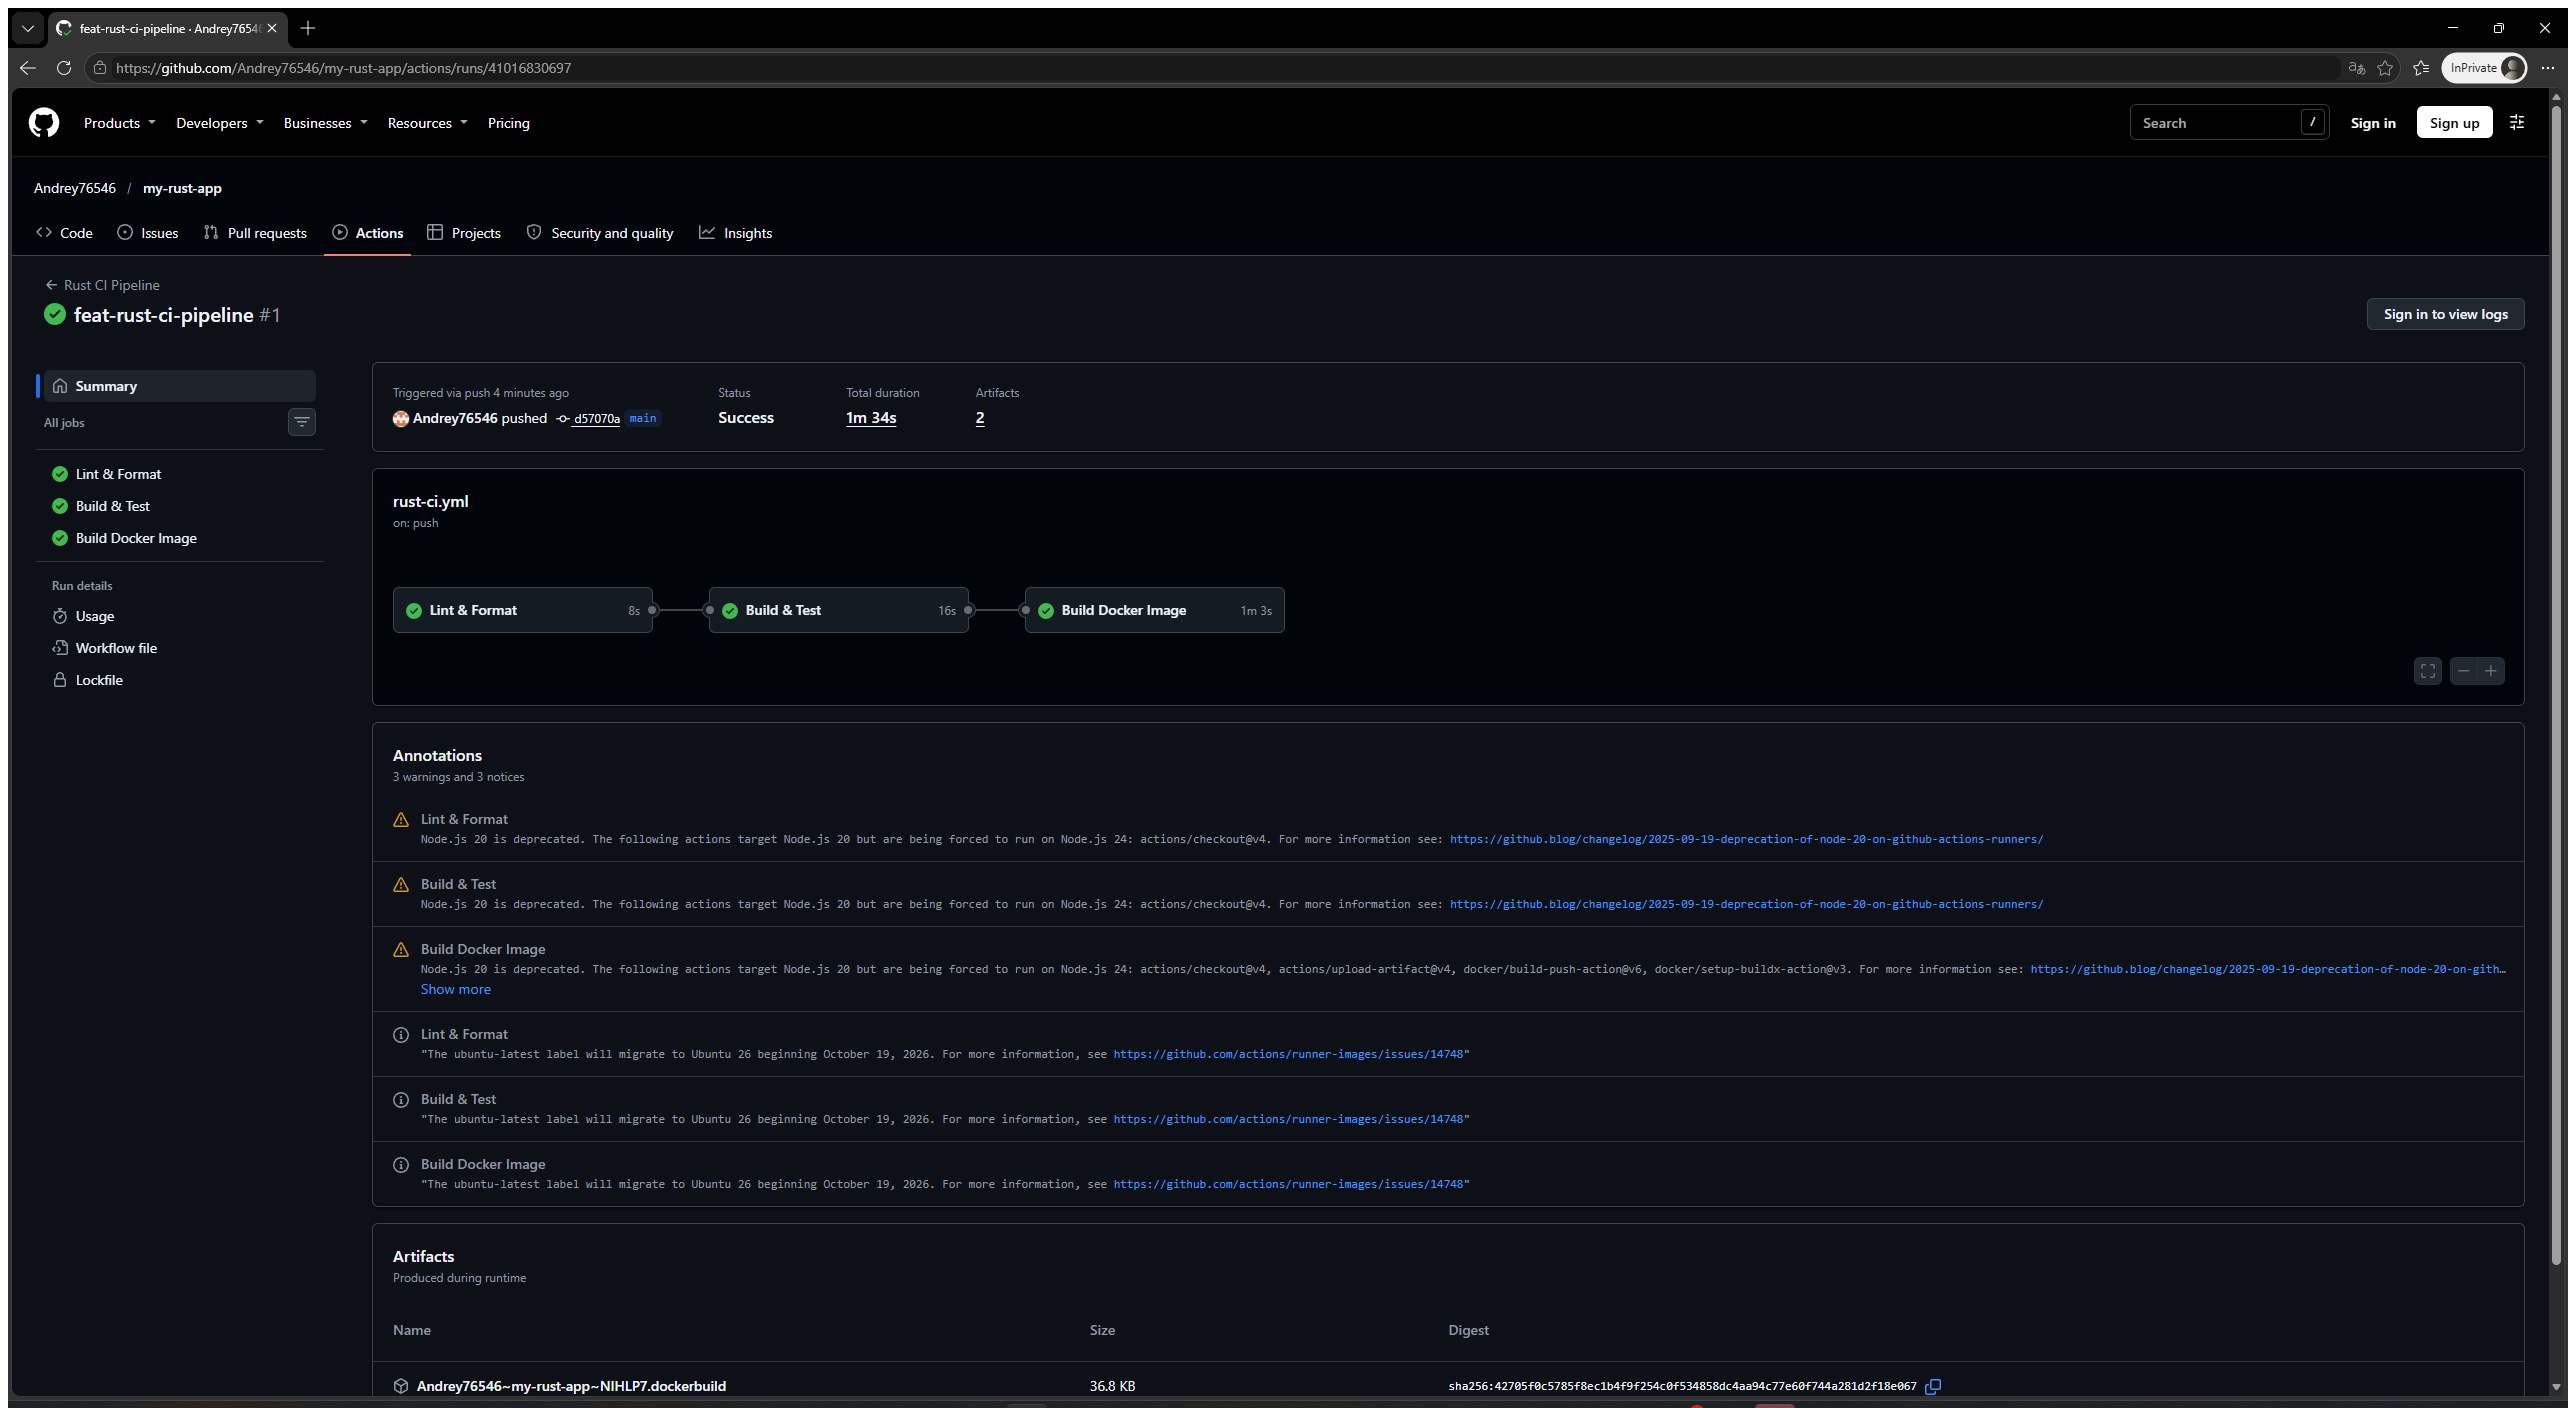
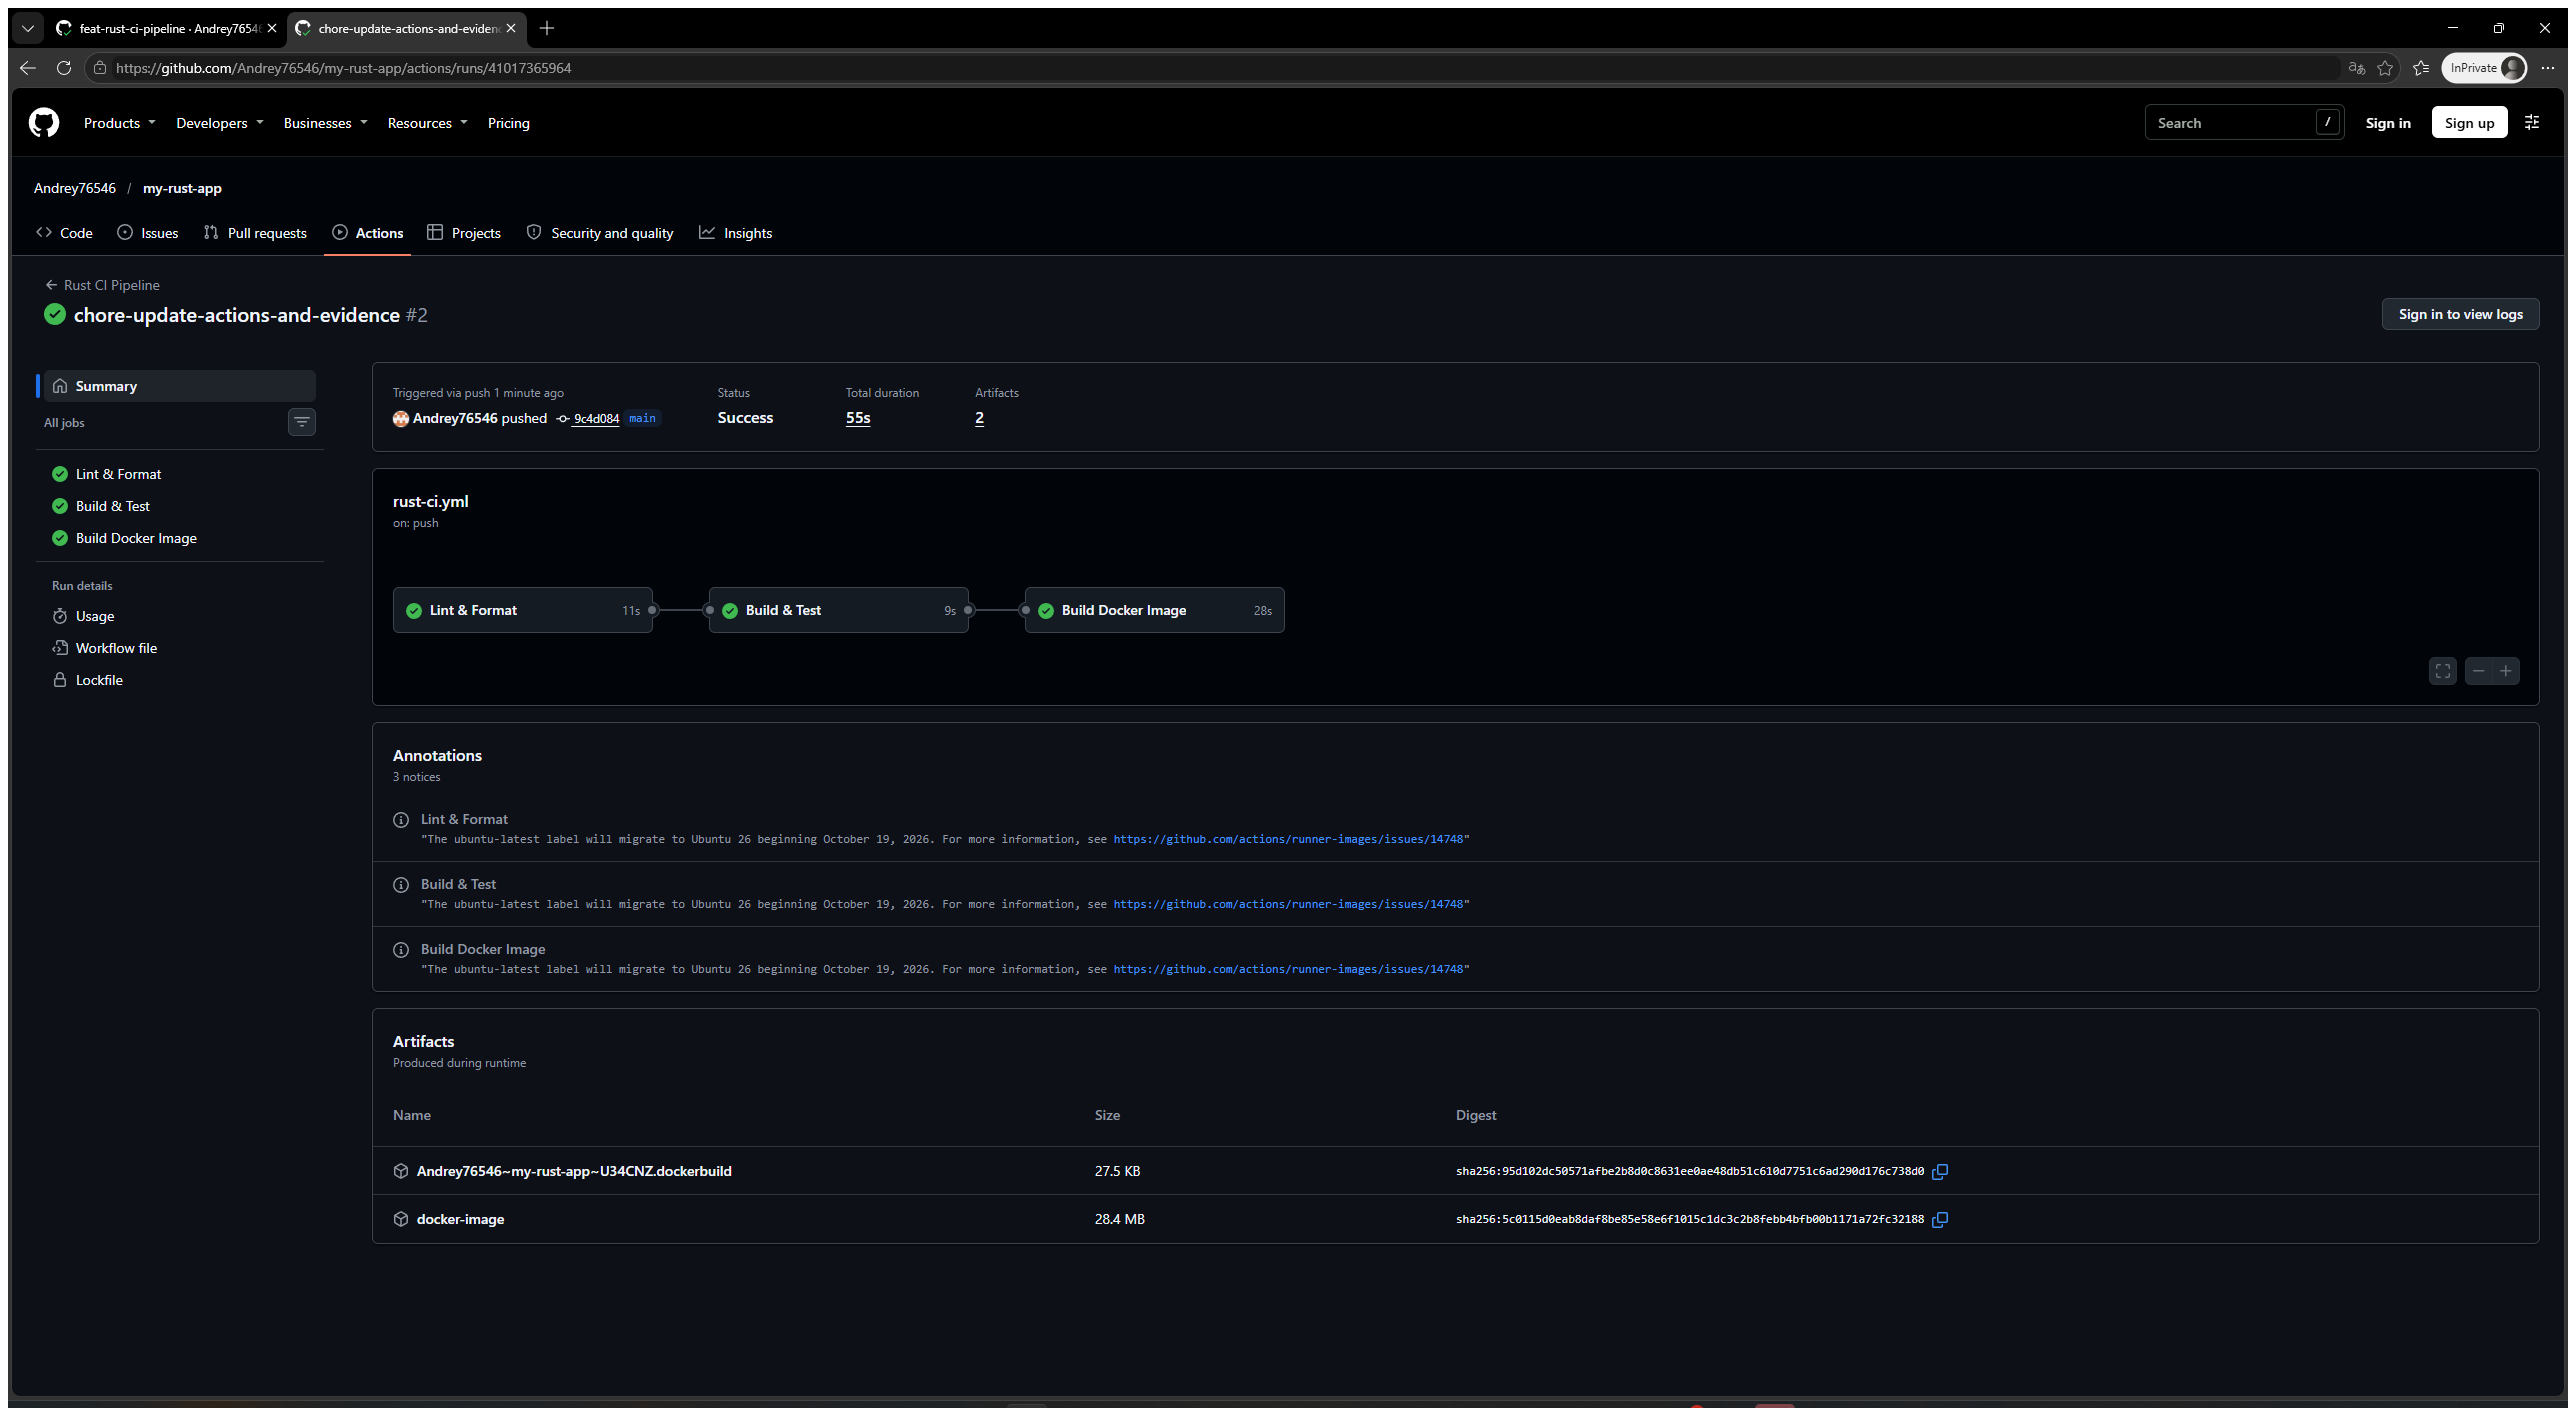
docs-finalize-rust-evidence

diff --git a/README.md b/README.md
@@ -80,7 +80,7 @@ Workflow [Rust CI Pipeline](https://github.com/Andrey76546/my-rust-app/actions/w
 - `Build & Test` — `cargo check`, debug/release-сборки и тесты;
 - `Build Docker Image` — Buildx, сборка и запуск контейнера, загрузка `docker-image.tar.gz`.
 
-Все запуски: [GitHub Actions](https://github.com/Andrey76546/my-rust-app/actions).
+Успешный запуск: [Rust CI Pipeline #2](https://github.com/Andrey76546/my-rust-app/actions/runs/41017365964). Все запуски: [GitHub Actions](https://github.com/Andrey76546/my-rust-app/actions).
 
 ## Результаты выполнения
 
